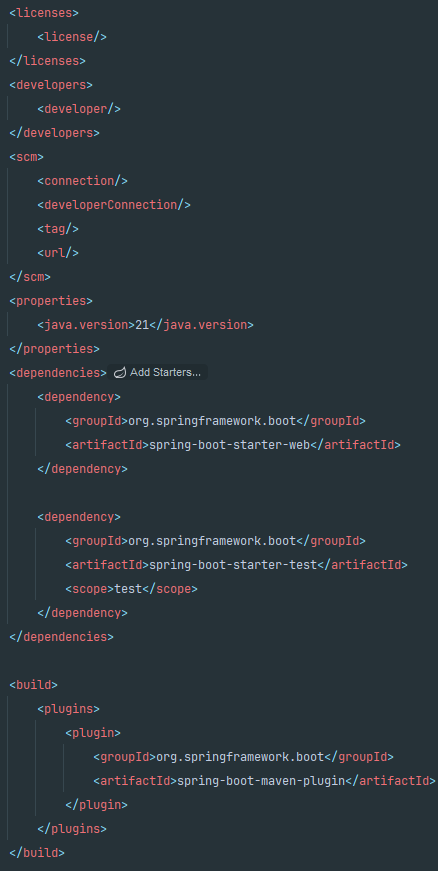
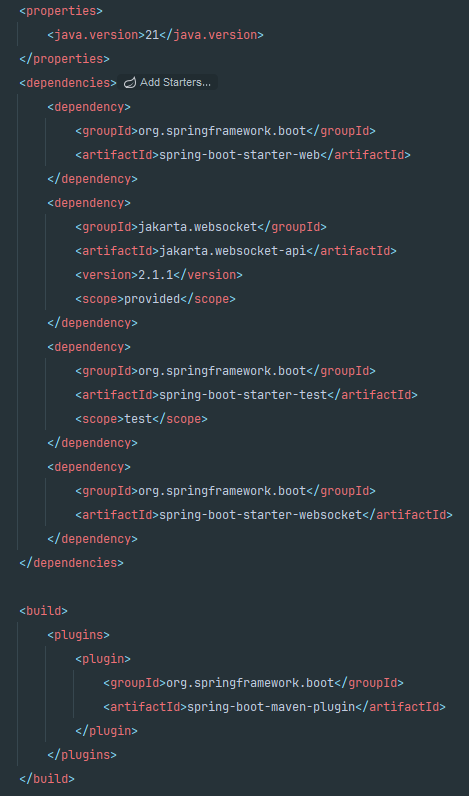
Add:code and readme for points 8,9 and 10. Update POM

Changed region(s): [[0.0297, 0.0, 1.0, 0.995]]

diff --git a/src/main/java/org/escuelaing/edu/lab6/websocketsprimer/endpoints/TimerEndpoint.java b/src/main/java/org/escuelaing/edu/lab6/websocketsprimer/endpoints/TimerEndpoint.java
@@ -1,0 +1,58 @@
+package org.escuelaing.edu.lab6.websocketsprimer.endpoints;
+
+import java.io.IOException;
+import java.util.logging.Level;
+import java.util.Queue;
+import java.util.concurrent.ConcurrentLinkedQueue;
+import java.util.logging.Logger;
+import jakarta.websocket.OnClose;
+import jakarta.websocket.OnError;
+import jakarta.websocket.OnOpen;
+import jakarta.websocket.Session;
+import jakarta.websocket.server.ServerEndpoint;
+import org.springframework.stereotype.Component;
+
+@Component
+@ServerEndpoint("/timer")
+public class TimerEndpoint {
+    private static final Logger logger = Logger.getLogger("ETFEndpoint");
+    /* Queue for all open WebSocket sessions */
+    static Queue<Session> queue = new ConcurrentLinkedQueue<>();
+    /* Call this method to send a message to all clients */
+    public static void send(String msg) {
+        try {
+            /* Send updates to all open WebSocket sessions */
+            for (Session session : queue) {
+                session.getBasicRemote().sendText(msg);
+                logger.log(Level.INFO, "Sent: {0}", msg);
+            }
+        } catch (IOException e) {
+            logger.log(Level.INFO, e.toString());
+        }
+    }
+    @OnOpen
+    public void openConnection(Session session) {
+        /* Register this connection in the queue */
+        queue.add(session);
+        logger.log(Level.INFO, "Connection opened.");
+        try {
+            session.getBasicRemote().sendText("Connection established.");
+        } catch (IOException ex) {
+            Logger.getLogger(TimerEndpoint.class.getName()).log(Level.SEVERE,
+                    null, ex);
+        }
+    }
+    @OnClose
+    public void closedConnection(Session session) {
+        /* Remove this connection from the queue */
+        queue.remove(session);
+        logger.log(Level.INFO, "Connection closed.");
+    }
+    @OnError
+    public void error(Session session, Throwable t) {
+        /* Remove this connection from the queue */
+        queue.remove(session);
+        logger.log(Level.INFO, t.toString());
+        logger.log(Level.INFO, "Connection error.");
+    }
+}

diff --git a/src/main/java/org/escuelaing/edu/lab6/websocketsprimer/components/TimedMessageBroker.java b/src/main/java/org/escuelaing/edu/lab6/websocketsprimer/components/TimedMessageBroker.java
@@ -1,0 +1,25 @@
+package org.escuelaing.edu.lab6.websocketsprimer.components;
+
+import org.escuelaing.edu.lab6.websocketsprimer.endpoints.TimerEndpoint;
+import java.text.SimpleDateFormat;
+import java.util.Date;
+import java.util.logging.Level;
+import java.util.logging.Logger;
+import org.springframework.context.annotation.Scope;
+import org.springframework.scheduling.annotation.Scheduled;
+import org.springframework.stereotype.Component;
+
+@Component
+@Scope("singleton")
+public class TimedMessageBroker {
+
+    private static final SimpleDateFormat dateFormat = new
+            SimpleDateFormat("HH:mm:ss");
+    private static final Logger logger =
+            Logger.getLogger(TimedMessageBroker.class.getName());
+    @Scheduled(fixedRate = 5000)
+    public void broadcast() {
+        logger.log(Level.INFO, "broadcastingMessages");
+        TimerEndpoint.send("The time is now " + dateFormat.format(new Date()));
+    }
+}

diff --git a/src/main/java/org/escuelaing/edu/lab6/websocketsprimer/configuration/WSConfigurator.java b/src/main/java/org/escuelaing/edu/lab6/websocketsprimer/configuration/WSConfigurator.java
@@ -1,0 +1,15 @@
+package org.escuelaing.edu.lab6.websocketsprimer.configuration;
+
+import org.springframework.context.annotation.Bean;
+import org.springframework.context.annotation.Configuration;
+import org.springframework.scheduling.annotation.EnableScheduling;
+import org.springframework.web.socket.server.standard.ServerEndpointExporter;
+
+@Configuration
+@EnableScheduling
+public class WSConfigurator {
+    @Bean
+    public ServerEndpointExporter serverEndpointExporter() {
+        return new ServerEndpointExporter();
+    }
+}

diff --git a/README.md b/README.md
@@ -48,3 +48,15 @@ Para los pasos 1,2 y 3 hacemos uso de ``spring initializr`` que nos genera de ma
 **7. Verifique que se esté ejecutando accediendo a ``localhost:8080/status``**
 
 ![](./images/imagen6.png)
+
+**8. Construyamos el EndPoint el servidor con Websockets:**
+
+![](./images/imagen7.png)
+
+**9. Construyamos una clase que emita mensajes desde el servidor:**
+
+![](./images/imagen8.png)
+
+**10. Ahora construyamos un componente que nos ayude a configurar el contenedor IoC**
+
+![](./images/imagen9.png)
